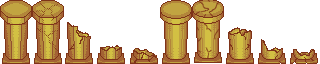
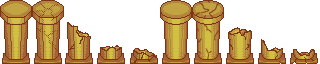
fixed Pillar's vertical offset (thx to debug hitbox)

Changed region(s): [[0.5938, 0.0, 0.7188, 0.5625], [0.5938, 0.75, 0.7188, 1.0], [0.5938, 0.5938, 0.6875, 0.625]]

diff --git a/src/level.js b/src/level.js
@@ -537,9 +537,9 @@ waw.putRoomObstacle = function(units, layer, pos, hitbox, hitboxPos) {
 
     var sprite = cc.Sprite.create(s_Block,cc.rect(Math.floor(waw.rand()*10)*32, 0, 32, 64));
     //coords in the room
-    pos.y += 16;
+    pos.y += 20;
     sprite.setPosition(pos);
-    layer.addChild(sprite, 16+ 250 - pos.y);
+    layer.addChild(sprite, 20+ 250 - pos.y);
     var wall = new waw.Unit();
     hitboxPos.y += 4;
     wall.setContentSize(hitbox); //collision box
